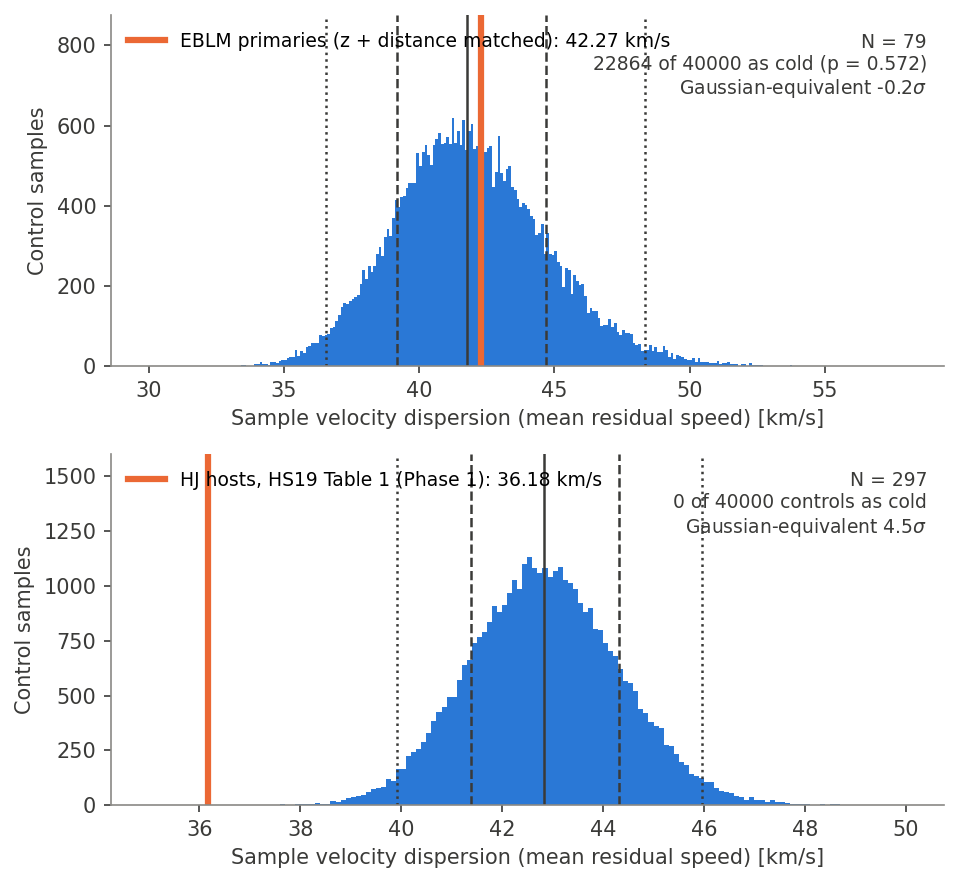
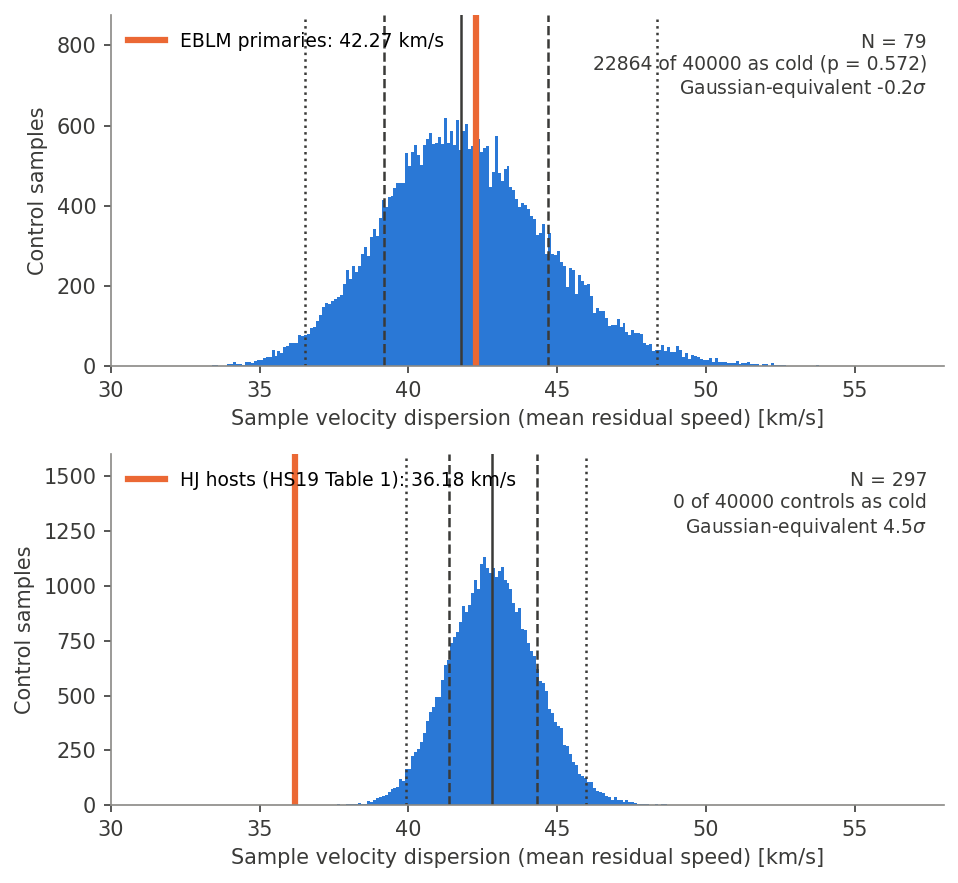
Exploratory follow-ups: Fig. 4 on a shared axis; control-width test (sample size, distance)

diff --git a/src/eblm_width.py b/src/eblm_width.py
@@ -1,0 +1,103 @@
+"""EXPLORATORY (not pre-registered; requested after STOP D2): why is the EBLM control
+distribution wider (SD 2.84 km/s) than the HJ hosts' (1.46 km/s)?
+
+    python -m src.eblm_width
+
+(a) Per-star velocity spread in the matched control pools: residual speeds |v - v_pool| of
+    the control stars actually picked, for the EBLM setup (79; z + distance) and the HJ
+    setup (297; z only, Phase 1), each also with the other matching scheme.
+(b) The HJ-host Monte Carlo on random subsamples of 79 HJ hosts (with their own matched
+    controls): the control-distribution SD, with z-only and z + distance matching.
+Sample-size expectation: SD scales as 1/sqrt(N), so 1.46 * sqrt(297/79) = 2.83 km/s.
+Aggregates only -> data/processed/eblm/d2/width_exploratory.json.
+"""
+import json
+
+import numpy as np
+import pandas as pd
+
+from . import config, kinematics, matching
+from .config import ROOT
+
+OUT = ROOT / "data" / "processed" / "eblm" / "d2"
+N_POOL_ITER = 2000       # control samples drawn per setup for (a)
+N_SUB = 200              # random 79-host HJ subsamples for (b)
+N_ITER_SUB = 1000        # Monte Carlo iterations per subsample
+
+
+def _sampler(h, fld, cfg, match_vars):
+    return matching.ControlSampler(h, fld, cfg, match_vars=match_vars)
+
+
+def pool_spread(h, fld, cfg, match_vars, label):
+    """(a): residual speeds of the picked control stars about the pooled mean velocity."""
+    s = _sampler(h, fld, cfg, match_vars)
+    rng = np.random.default_rng(np.random.SeedSequence([cfg["seed"], sum(map(ord, label)), 11]))
+    st = cfg["monte_carlo"]["statistic"]
+    picks, disp = [], []
+    for _ in range(N_POOL_ITER):
+        p = s.control(rng)
+        p = p[p >= 0]
+        picks.append(p)
+        disp.append(kinematics.dispersion(s.fU[p], s.fV[p], s.fW[p], st))
+    p = np.concatenate(picks)
+    U, V, W = s.fU[p], s.fV[p], s.fW[p]
+    speed = np.sqrt((U - U.mean()) ** 2 + (V - V.mean()) ** 2 + (W - W.mean()) ** 2)
+    n = len(h)
+    return {"match_vars": match_vars, "n_hosts": n, "n_picks": int(len(p)),
+            "per_star_mean_kms": float(speed.mean()), "per_star_sd_kms": float(speed.std(ddof=1)),
+            "per_star_p16_p84": [float(x) for x in np.percentile(speed, [16, 84])],
+            "sd_UVW_kms": [float(np.std(x, ddof=1)) for x in (U, V, W)],
+            "pool_median_dist_pc": float(np.median(fld["dist_pc"].to_numpy()[s.field_idx][p])),
+            "pool_median_abs_z_pc": float(np.median(np.abs(fld["z"].to_numpy()[s.field_idx][p]))),
+            "predicted_sd_per_star_sd_over_sqrtN": float(speed.std(ddof=1) / np.sqrt(n)),
+            "control_sd_here": float(np.std(disp, ddof=1)), "control_median_here": float(np.median(disp))}
+
+
+def subsample_widths(hj, fld, cfg, match_vars, label, n=79):
+    """(b): control SD (and median) for N_SUB random n-host subsamples of the HJ hosts."""
+    rng = np.random.default_rng(np.random.SeedSequence([cfg["seed"], sum(map(ord, label)), 12]))
+    st = cfg["monte_carlo"]["statistic"]
+    sds, meds, hdisp = [], [], []
+    for k in range(N_SUB):
+        sub = hj.iloc[np.sort(rng.choice(len(hj), n, replace=False))].reset_index(drop=True)
+        r = _sampler(sub, fld, cfg, match_vars).run(N_ITER_SUB, rng, st)
+        sds.append(np.std(r["dispersion"], ddof=1))
+        meds.append(np.median(r["dispersion"]))
+        hdisp.append(r["host_dispersion_full"][st])
+    sds, meds = np.array(sds), np.array(meds)
+    return {"match_vars": match_vars, "n_sub": N_SUB, "n_per_sub": n, "n_iter_each": N_ITER_SUB,
+            "control_sd_median": float(np.median(sds)), "control_sd_p16_p84": [float(x) for x in np.percentile(sds, [16, 84])],
+            "control_median_median": float(np.median(meds)),
+            "host_sigma_minus_control_median": {"median": float(np.median(np.array(hdisp) - meds)),
+                                                "p16_p84": [float(x) for x in np.percentile(np.array(hdisp) - meds, [16, 84])]}}
+
+
+def main():
+    cfg = config.load()
+    out = config.out_dir(cfg)
+    fld = pd.read_csv(out / "field_ms.csv.gz")
+    hj = pd.read_csv(out / "hosts_hj_table1_final.csv")
+    e = pd.read_csv(ROOT / "data" / "private" / "eblm_d2" / "eblm_final_uvw.csv")
+    ids = set(pd.read_csv(ROOT / "data" / "eblm" / "targets_eblm4.csv")["source_id"].dropna().astype(np.int64))
+    fld_e = fld[~fld["source_id"].isin(ids)].reset_index(drop=True)        # the D2 field (D9)
+    assert len(fld_e) == 376786, len(fld_e)
+    summ = json.loads((out / "summary.json").read_text())["mc"]["hj_table1"]
+    R = {"label": "EXPLORATORY, not pre-registered (requested after STOP D2)",
+         "reference": {"eblm_control_sd_primary": json.loads((OUT / "results.json").read_text())["primary"]["control_sd"],
+                       "eblm_control_sd_z_only_G1": json.loads((OUT / "results.json").read_text())["G"]["G1_z_only"]["control_sd"],
+                       "hj297_control_sd_z_only": summ["control_std"],
+                       "sqrtN_scaled_hj_sd_to_79": summ["control_std"] * np.sqrt(len(hj) / len(e))}}
+    zd, z = ["z", "dist_pc"], ["z"]
+    R["a_pool_spread"] = {"eblm_z_dist": pool_spread(e, fld_e, cfg, zd, "w_e_zd"),
+                          "eblm_z_only": pool_spread(e, fld_e, cfg, z, "w_e_z"),
+                          "hj_z_only": pool_spread(hj, fld, cfg, z, "w_h_z"),
+                          "hj_z_dist": pool_spread(hj, fld, cfg, zd, "w_h_zd")}
+    R["b_hj_subsamples_79"] = {"z_only": subsample_widths(hj, fld, cfg, z, "w_sub_z"),
+                               "z_dist": subsample_widths(hj, fld, cfg, zd, "w_sub_zd")}
+    (OUT / "width_exploratory.json").write_text(json.dumps(R, indent=1, default=float))
+    print(json.dumps(R, indent=1, default=float))
+
+
+if __name__ == "__main__":
+    main()

diff --git a/src/figures.py b/src/figures.py
@@ -101,13 +101,20 @@ def fig_uvw(field, host, path=None, label="HJ hosts", points=True):
     _save(fig, path)
 
 
-def fig_mc(results, path=None, labels=None):
-    """Fig. 4: control-sample dispersion histograms with host values and percentiles."""
+def fig_mc(results, path=None, labels=None, shared_x=False):
+    """Fig. 4: control-sample dispersion histograms with host values and percentiles.
+
+    shared_x=True puts every panel on one horizontal range (and the same 0.1 km/s bins)."""
     n = len(results)
     fig, axes = plt.subplots(n, 1, figsize=(6.5, 3.0 * n), squeeze=False)
+    if shared_x:
+        glo = min(min(d.min(), s["host_dispersion"]) for s, d in results.values()) - 0.5
+        ghi = max(max(d.max(), s["host_dispersion"]) for s, d in results.values()) + 0.5
     for ax, (key, (summary, disp)) in zip(axes[:, 0], results.items()):
         lo = min(disp.min(), summary["host_dispersion"]) - 0.5
         hi = max(disp.max(), summary["host_dispersion"]) + 0.5
+        if shared_x:
+            lo, hi = glo, ghi
         ax.hist(disp, bins=np.arange(np.floor(lo), np.ceil(hi) + 0.1, 0.1), color=HOST, lw=0)
         for q, ls in ((2, ":"), (16, "--"), (50, "-"), (84, "--"), (98, ":")):
             ax.axvline(np.percentile(disp, q), color=INK, ls=ls, lw=1.2)
@@ -121,6 +128,8 @@ def fig_mc(results, path=None, labels=None):
                 transform=ax.transAxes, ha="right", va="top", fontsize=9, color=INK)
         ax.set(xlabel="Sample velocity dispersion (mean residual speed) [km/s]", ylabel="Control samples")
         ax.set_ylim(0, ax.get_ylim()[1] * 1.35)          # headroom for legend and text
+        if shared_x:
+            ax.set_xlim(np.floor(lo), np.ceil(hi))
         ax.legend(frameon=False, loc="upper left", fontsize=9)
     fig.tight_layout()
     _save(fig, path)

diff --git a/src/eblm_kinematics.py b/src/eblm_kinematics.py
@@ -289,7 +289,7 @@ def make_figures(cfg, e=None, fld=None, hj=None):
     hjs = json.loads((config.out_dir(cfg) / "summary.json").read_text())["mc"]["hj_table1"]
     dh = np.load(config.out_dir(cfg) / "mc_hj_table1.npz")[f"disp_{st}"]
     figures.fig_mc({"eblm": (s, d), "hj_table1": (hjs, dh)}, FIG / "fig4_mc_eblm.png",
-                   {"eblm": "EBLM primaries (z + distance matched)", "hj_table1": "HJ hosts, HS19 Table 1 (Phase 1)"})
+                   {"eblm": "EBLM primaries", "hj_table1": "HJ hosts (HS19 Table 1)"}, shared_x=True)
 
 
 if __name__ == "__main__":

diff --git a/EBLM_REPORT.md b/EBLM_REPORT.md
@@ -163,15 +163,59 @@ hosts are reweighted to the EBLM colour distribution, and the CI comes from 10,0
   UV/UW/VW, for F, G and K.
   - Per-star points are omitted because the γ values are private (D9).
   - The K panel has N = 1, so no EBLM ellipse is drawn there.
-- **`fig4_mc_eblm.png`** (as HS19 Fig. 4): the control-dispersion histogram for the EBLM primaries, with their value
-  and percentiles. Below it, for reference, the Phase 1 HJ-host panel.
+- **`fig4_mc_eblm.png`** (as HS19 Fig. 4): the control-dispersion histogram for the EBLM primaries (z and distance
+  matched), with their value and percentiles. Below it, for reference, the Phase 1 HJ-host panel (z matched). Both
+  panels share one horizontal range (30–58 km/s), so the two distributions can be compared directly (redrawn
+  2026-11-02 at the collaborator's request).
 
-## 11. Reproduce
+## 11. EXPLORATORY [not pre-registered]: why the EBLM control distribution is wider
+Requested by the collaborator after STOP D2 (`python -m src.eblm_width`; `data/processed/eblm/d2/width_exploratory.json`).
+The EBLM control SD is 2.84 km/s against 1.48 km/s for the 297 HJ hosts. Pure 1/√N scaling predicts
+1.48 × √(297/79) = **2.87 km/s**.
+
+**(a) Spread of individual control-star velocities.** Residual speeds |v − v̄| of the control stars actually picked,
+over 2,000 control samples per setup:
+
+| Control pool | N hosts | Per-star mean | Per-star SD | SD/√N | Control SD measured | Pool median d, \|z\| |
+|---|---|---|---|---|---|---|
+| EBLM, z + distance (primary) | 79 | 42.1 | 25.0 | 2.81 | 2.84 | 486 pc, 211 pc |
+| EBLM, z only | 79 | 42.1 | 24.7 | 2.78 | 2.81 | 549 pc, 176 pc |
+| HJ, z only (Phase 1) | 297 | 42.9 | 25.1 | 1.46 | 1.45 | 412 pc, 130 pc |
+| HJ, z + distance | 297 | 43.6 | 25.8 | 1.50 | 1.48 | 412 pc, 157 pc |
+
+- The per-star spreads of the two pools are the same to within 0.1 km/s (25.0 vs 25.1).
+- In every setup, SD/√N reproduces the measured control SD.
+
+**(b) Random subsamples of 79 HJ hosts.** 200 subsamples, each with its own matched controls and 1,000 iterations:
+
+| Matching | Control SD: median (16–84 %) | Control median |
+|---|---|---|
+| z only (as Phase 1) | **2.86** (2.80–2.93) km/s | 42.6 km/s |
+| z + distance (as the EBLM primary) | **2.95** (2.87–3.05) km/s | 43.2 km/s |
+
+**Conclusion.** The wider EBLM distribution comes from sample size. (b) gives 2.86 km/s for 79 HJ hosts, and (a)
+shows the same per-star spread.
+
+**How much comes from distance.** Very little, a few per cent of the width:
+- 79 HJ hosts: +0.08 km/s (2.86 → 2.95);
+- the EBLMs: about +0.03 to +0.10 km/s (2.81 → 2.84 here; 2.74 for G1 at 5,000 iterations, against 2.84 for the
+  primary);
+- per star: matching on distance raises the per-star SD by 0.3–0.7 km/s, because it pulls in farther, higher-|z|
+  stars.
+
+Of the 1.36 km/s difference between the two widths, essentially all is 1/√N.
+
+**Aside.** For the 200 subsamples of 79 HJ hosts, σ_host − control median has median −6.6 km/s (16–84 %: −8.4 to
+−5.0) with z matching, and −7.5 km/s with z + distance. An HJ sample the size of the EBLM sample would therefore
+typically show the HJ deficit, whereas the EBLMs give +0.5 km/s. This is exploratory and consistent with C-2.
+
+## 12. Reproduce
 ```
 python -m src.gamma_fit             # γ fits (needs the private CORALIE copies; outputs to data/private/)
 python -m src.gamma_fit --summary   # STOP D1 aggregates
 python -m src.gamma_crosscheck nss  # Gaia DR3 two-body orbits (ARI)
-python -m src.eblm_kinematics       # everything in this report (~4 min)
+python -m src.eblm_kinematics       # sections 1-10 (~4 min)
+python -m src.eblm_width            # section 11, exploratory (~12 min)
 python tests/run_tests.py           # 39 tests
 ```
 Seeds are fixed (config `seed`; one stream per label and chunk). Monte Carlo chunks are checkpointed in

diff --git a/DECISIONS.md b/DECISIONS.md
@@ -1028,3 +1028,21 @@ any UVW, dispersion or Monte Carlo of the EBLMs.
 
 **D13. F (errors).** The fitted median σ_γ is 0.028 km/s, below the 1 km/s trigger, so no deconvolved value is
 reported.
+
+### After STOP D2: collaborator follow-ups (2026-11-02; exploratory, not pre-registered)
+**D14. Fig. 4 redrawn.**
+- Both panels (EBLM primaries; HJ hosts from Phase 1) now share one horizontal range, 30–58 km/s, with the same
+  0.1 km/s bins (`figures.fig_mc(shared_x=True)`).
+- The panel labels were shortened so the legend no longer overlaps the text block. The matching scheme is stated in
+  the report caption instead.
+
+**D15. Why the EBLM control distribution is wider** (`src/eblm_width.py`; EBLM_REPORT.md §11).
+- **Result:** sample size. 200 random 79-host HJ subsamples give a control SD of 2.86 km/s (16–84 %: 2.80–2.93), and
+  the per-star spreads of the matched pools agree (EBLM 25.0, HJ 25.1 km/s).
+- **Distance matching** adds only +0.03–0.10 km/s to the width.
+- **Design:**
+  - (a) uses 2,000 control samples per setup;
+  - (b) uses 200 subsamples × 1,000 iterations;
+  - fixed seeds;
+  - the D2 field (without the EBLM primaries) for the EBLMs, and the Phase 1 field for the HJ hosts.
+- **Runtime:** 12 min. Each subsample rebuilds its control sampler.
